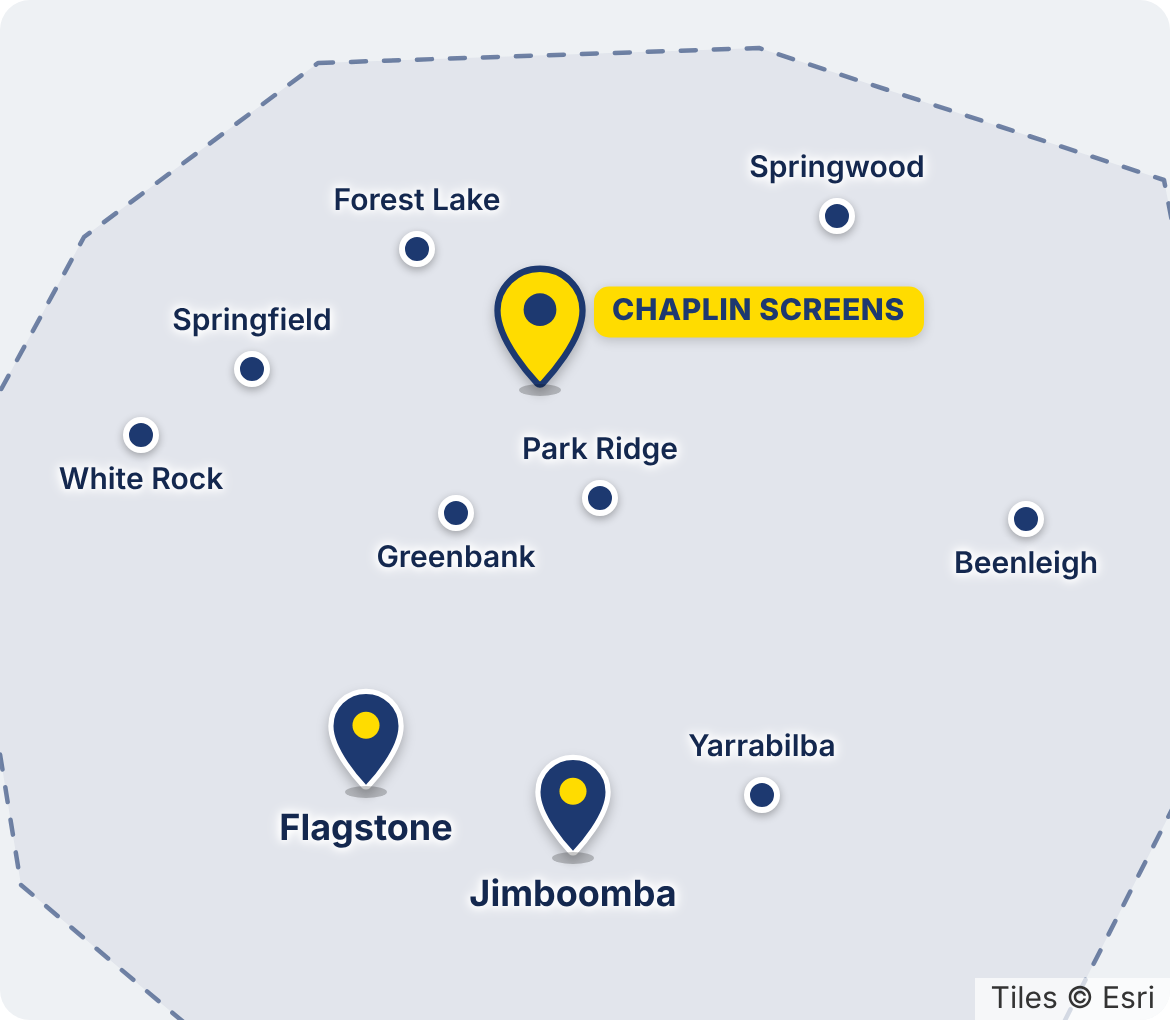
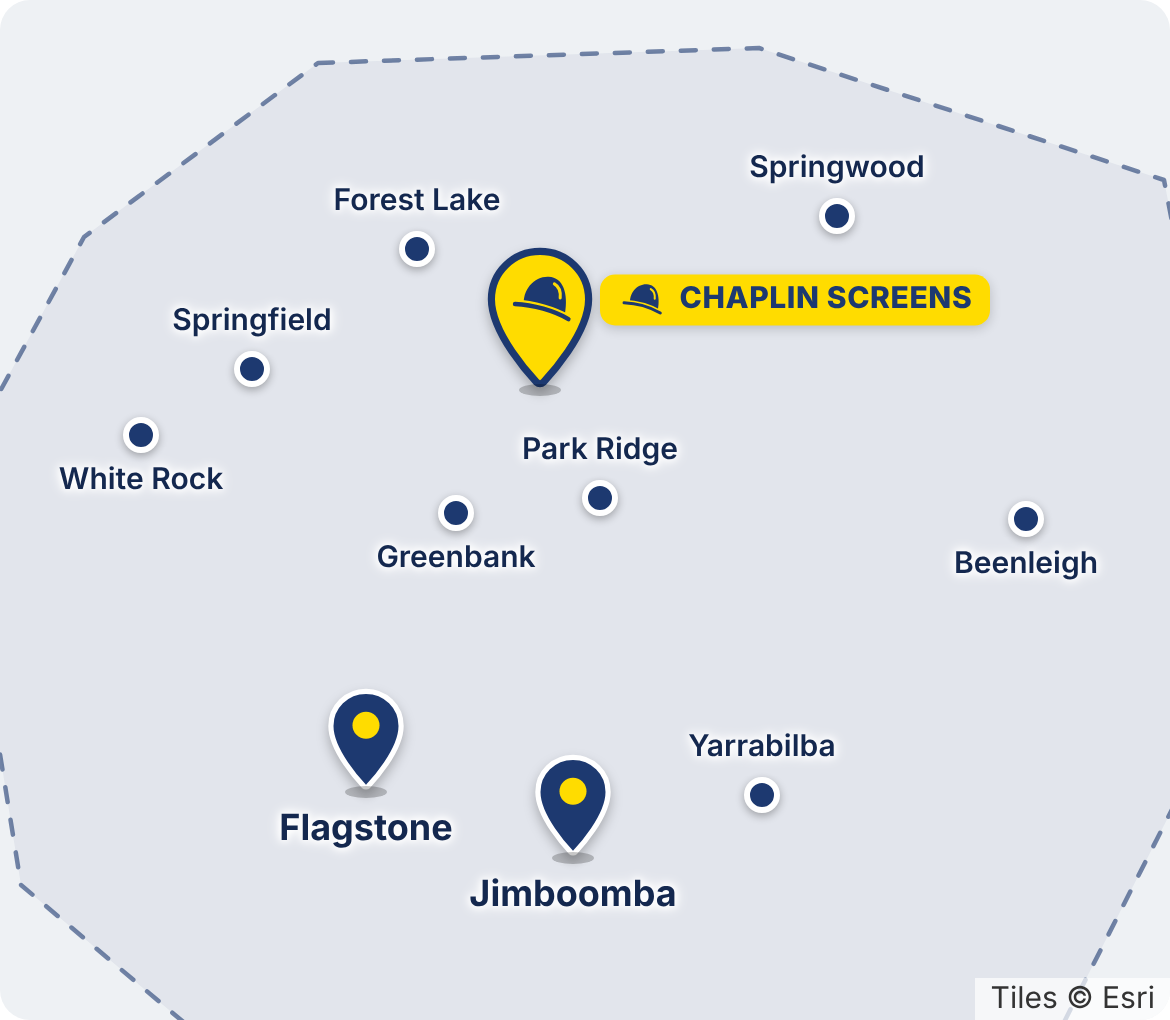
Add the Chaplin bowler hat to the head office pin and label
The hat is traced as inline SVG and drawn in brand blue with yellow
cut-outs on the pin, and in the label it follows the label colours,
switching to yellow on blue when hovered.

Claude-Session: https://claude.ai/code/session_0174eAv1zeVFdJMDRdpbnAXd

Changed region(s): [[0.4, 0.2431, 0.8615, 0.3343]]

diff --git a/client-maps/chaplin-screens/service-area-map.html b/client-maps/chaplin-screens/service-area-map.html
@@ -118,8 +118,12 @@
   .csm-dotwrap .csm-label.at-b { top: calc(100% - 6px); }
   .csm-dotwrap .csm-label.at-t { bottom: calc(100% - 6px); }
 
-  .csm-hq .csm-pin { width: 38px; height: 50px; }
+  .csm-hq .csm-pin { width: 42px; height: 56px; }
   .csm-hq .csm-label {
+    --csm-hat-cut: var(--csm-yellow);
+    display: inline-flex;
+    align-items: center;
+    gap: 5px;
     padding: 3px 8px;
     background: var(--csm-yellow);
     color: var(--csm-blue);
@@ -131,7 +135,10 @@
     box-shadow: 0 1px 4px rgba(0, 0, 0, .18);
   }
 
-  /* ---- Hot state (pin hovered/focused, or its suburb button hovered) ---- */
+  .csm-hat { width: 1.55em; height: 1.24em; flex: none; margin: -2px 0 -1px; }
+  .csm-hq.is-hot .csm-label { --csm-hat-cut: var(--csm-blue); }
+
+  /* ---- Hot state (pin or dot hovered/focused) ---- */
   .csm-pinwrap.is-hot .csm-pin svg { animation: csm-hop .55s cubic-bezier(.3, 0, .3, 1) forwards; }
   .csm-pinwrap.is-hot .csm-shadow { transform: scale(.7); opacity: .6; }
   .csm-pinwrap.is-hot .csm-label {
@@ -219,7 +226,7 @@
     .csm-map { border-radius: 10px; }
     .csm-label { font-size: 12px; }
     .csm-pin { width: 26px; height: 35px; }
-    .csm-hq .csm-pin { width: 32px; height: 42px; }
+    .csm-hq .csm-pin { width: 36px; height: 48px; }
     .csm-hq .csm-label { font-size: 11px; }
   }
   @media (max-width: 400px) {
@@ -351,6 +358,24 @@
   fitView(); // must run before markers are added
 
   /* ---- Markers ---- */
+  // Chaplin bowler hat, traced from the brand icon (200 x 160 box). The
+  // "cut" strokes (brim gap and highlight) take the colour behind the hat.
+  function hatPaths(fill, cut) {
+    var brim = 'M26 96C80 98 140 116 182 140';
+    return '<path d="M52 104C46 52 84 14 124 16C168 18 182 66 172 124C132 108 92 102 52 104Z" fill="' + fill + '"/>' +
+      '<path d="M141 37C153 44 160 58 158 78" fill="none" stroke="' + cut + '" stroke-width="9" stroke-linecap="round"/>' +
+      '<path d="' + brim + '" fill="none" stroke="' + cut + '" stroke-width="26" stroke-linecap="round"/>' +
+      '<path d="' + brim + '" fill="none" stroke="' + fill + '" stroke-width="13" stroke-linecap="round"/>';
+  }
+  function hqPinSvg() {
+    return '<svg viewBox="0 0 30 40" aria-hidden="true" focusable="false">' +
+      '<path d="M15 1.5C7.5 1.5 1.5 7.4 1.5 14.8c0 9.6 11.2 21.6 12.6 23.1a1.3 1.3 0 0 0 1.8 0c1.4-1.5 12.6-13.5 12.6-23.1C28.5 7.4 22.5 1.5 15 1.5z" ' +
+      'fill="' + YELLOW + '" stroke="' + BLUE + '" stroke-width="2"/>' +
+      '<g transform="translate(5.6 7) scale(.095)">' + hatPaths(BLUE, YELLOW) + '</g></svg>';
+  }
+  var LABEL_HAT = '<svg class="csm-hat" viewBox="0 0 200 160" aria-hidden="true" focusable="false">' +
+    hatPaths('currentColor', 'var(--csm-hat-cut)') + '</svg>';
+
   function pinSvg(fill, stroke, dot) {
     return '<svg viewBox="0 0 30 40" aria-hidden="true" focusable="false">' +
       '<path d="M15 1.5C7.5 1.5 1.5 7.4 1.5 14.8c0 9.6 11.2 21.6 12.6 23.1a1.3 1.3 0 0 0 1.8 0c1.4-1.5 12.6-13.5 12.6-23.1C28.5 7.4 22.5 1.5 15 1.5z" ' +
@@ -371,9 +396,9 @@
       ? ' href="' + escapeHtml(url) + '" target="_top" aria-label="' + escapeHtml(item.name) + ' security screens"'
       : (hq ? ' tabindex="0" role="img" aria-label="' + escapeHtml(item.name) + ' head office"' : ' aria-hidden="true"');
     var inner = full
-      ? '<span class="csm-pin">' + (hq ? pinSvg(YELLOW, BLUE, BLUE) : pinSvg(BLUE, '#ffffff', YELLOW)) + '</span>' +
+      ? '<span class="csm-pin">' + (hq ? hqPinSvg() : pinSvg(BLUE, '#ffffff', YELLOW)) + '</span>' +
         '<span class="csm-shadow"></span>' +
-        '<span class="csm-label at-b">' + escapeHtml(item.name) + '</span>'
+        '<span class="csm-label at-b">' + (hq ? LABEL_HAT : '') + escapeHtml(item.name) + '</span>'
       : '<span class="csm-dot"></span>' +
         '<span class="csm-label at-b">' + escapeHtml(item.name) + '</span>';
     var html = '<' + tag + ' class="csm-pinwrap' + (hq ? ' csm-hq' : '') + (full ? '' : ' csm-dotwrap') + '"' + attrs + '>' +

diff --git a/client-maps/chaplin-screens/README.md b/client-maps/chaplin-screens/README.md
@@ -21,5 +21,6 @@ All settings are in the `EDIT HERE` block at the top of the script:
 - **Hover card.** Hovering or focusing a pin or dot shows a card above it; pins hop once and stay raised.
 - **Touch.** Tapping a pin shows the hop, then opens the page. Tapping a dot shows its card for a few seconds.
 - **Arrival.** Pins drop in once when the map scrolls into view, rippling out from head office. Skipped under `prefers-reduced-motion`.
-- **Labels.** Dot names sit under the dot, or above it when below is blocked. Pin labels prefer below. The head office label takes whichever side leaves the most suburb names visible. On a 320px-wide phone the three tightest suburbs show their names on tap instead.
+- **Labels.** Dot names sit under the dot, or above it when below is blocked. Pin labels prefer below. The head office label takes whichever side leaves the most suburb names visible. On a 320px-wide phone the four tightest suburbs show their names on tap instead.
+- **Head office.** Yellow pin and label carry the Chaplin bowler hat, traced as an inline SVG (`hatPaths` in the script), so there is no image file to host.
 - Tiles: Esri's keyless light-grey base, without labels. Leaflet 1.9.4 from unpkg with SRI hashes.
